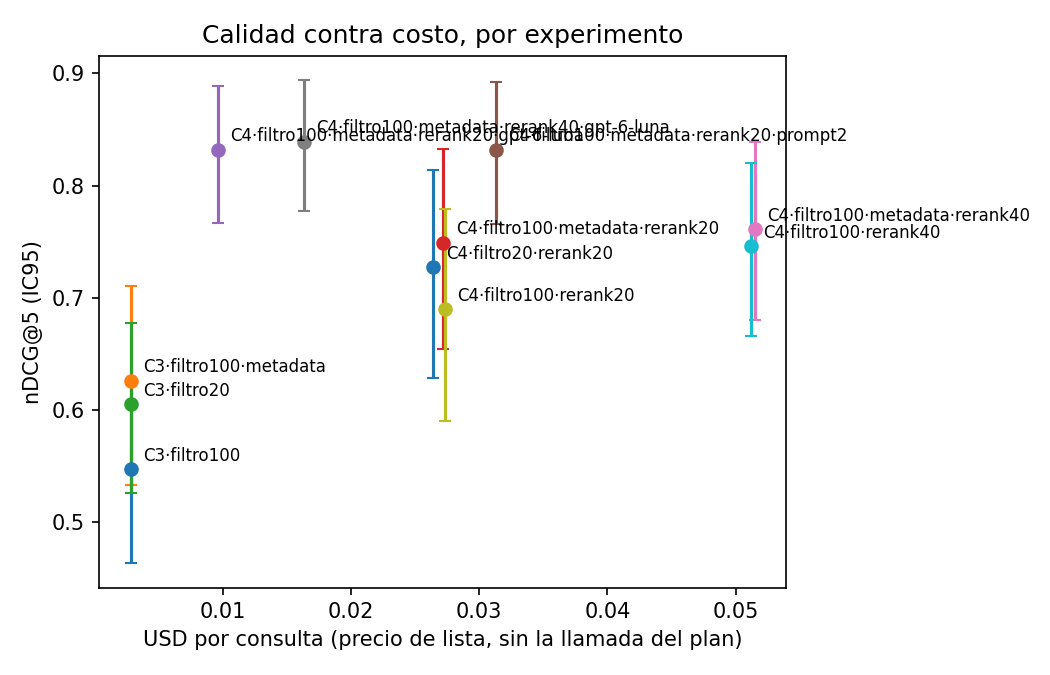
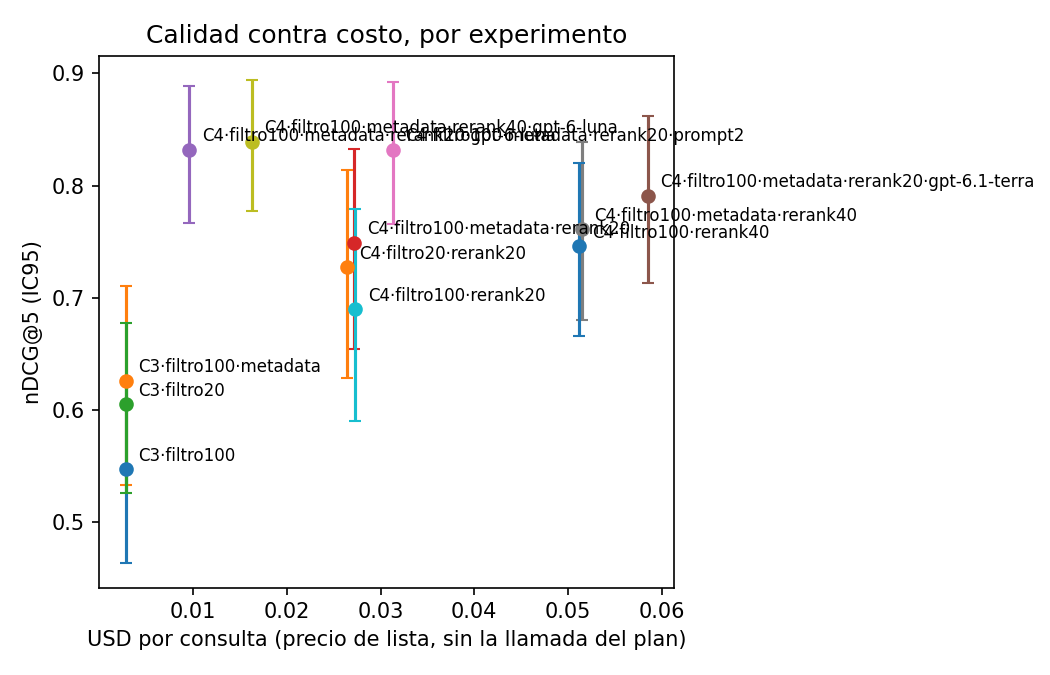
Juicios de las 3 obras nuevas de terra
Con esto no queda ningún par sin juzgar en el set de 30. Terra queda en 0,791,
+0,042 contra mini (IC 95 %: -0,007 a 0,096).

diff --git a/artifacts/analisis/planilla-juicios.html b/artifacts/analisis/planilla-juicios.html
@@ -26,7 +26,7 @@ section{margin-bottom:36px}
 .opc{color:var(--suave)}
 .grado{margin:6px 0;font-weight:600}
 .nota{width:100%;padding:6px;border:1px solid var(--borde);border-radius:6px;font:inherit;font-size:13px}
-.grados{display:flex;gap:6px;margin:8px 0}.g{flex:1;text-align:center;padding:6px;border:1px solid var(--borde);border-radius:6px;cursor:pointer}</style></head><body><div class="barra"><strong>Juicios pendientes del set de 30</strong><label>Anotador: <input id="anotador" placeholder="tu nombre"></label><span id="progreso">0 de 3</span><button id="descargar">Descargar CSV</button></div><main><div class="rubrica"><strong>Rúbrica v1, resumida</strong> (la completa está en <code>artifacts/ground-truth/rubricas/v1.md</code>)<ul><li><strong>2</strong>: cumple claramente el pedido respecto de la imagen original.</li><li><strong>1</strong>: cumple parcialmente o es defendible. Si dudás entre dos grados, es 1.</li><li><strong>0</strong>: no cumple. También es 0 si la obra es la misma imagen original.</li></ul>Juzgá cada obra por separado, sin compararla con las otras de la misma consulta. Cada persona usa su propia copia y no mira los grados de la otra. El avance queda guardado en este navegador.</div><section><header class="consulta"><img src="../../data/imagenes/aic_111728.jpg" alt=""><div><p class="id">c02-ambiguo · ambiguo · 1 obras</p><p class="pedido">«más tranquilo»</p><p class="datos">Imagen original: aic:111728. ¿La obra de abajo cumple el pedido respecto de esta imagen?</p></div></header><div class="obras"><article class="obra" data-clave="c02-ambiguo|aic:81574"><img loading="lazy" src="../../data/imagenes/aic_81574.jpg" alt=""><h3>Grey and Silver: Old Battersea Reach</h3><p class="datos">James McNeill Whistler · London · 1863 · Oil on canvas</p><p class="datos">aic:81574 <a href="https://www.artic.edu/artworks/81574" target="_blank" rel="noopener">ver en el museo</a></p><div class="grados"><label class="g g0"><input type="radio" name="c02-ambiguo|aic:81574" value="0"> 0</label><label class="g g1"><input type="radio" name="c02-ambiguo|aic:81574" value="1"> 1</label><label class="g g2"><input type="radio" name="c02-ambiguo|aic:81574" value="2"> 2</label></div><input class="nota" placeholder="nota (opcional)"></article></div></section><section><header class="consulta"><img src="../../data/imagenes/aic_111728.jpg" alt=""><div><p class="id">c02-visual · visual_cromatico · 1 obras</p><p class="pedido">«la misma escena de agua pero con luz dorada»</p><p class="datos">Imagen original: aic:111728. ¿La obra de abajo cumple el pedido respecto de esta imagen?</p></div></header><div class="obras"><article class="obra" data-clave="c02-visual|aic:238272"><img loading="lazy" src="../../data/imagenes/aic_238272.jpg" alt=""><h3>River Landscape with a View of Naarden</h3><p class="datos">Salomon van Ruysdael · Netherlands · 1642 · Oil on panel</p><p class="datos">aic:238272 <a href="https://www.artic.edu/artworks/238272" target="_blank" rel="noopener">ver en el museo</a></p><div class="grados"><label class="g g0"><input type="radio" name="c02-visual|aic:238272" value="0"> 0</label><label class="g g1"><input type="radio" name="c02-visual|aic:238272" value="1"> 1</label><label class="g g2"><input type="radio" name="c02-visual|aic:238272" value="2"> 2</label></div><input class="nota" placeholder="nota (opcional)"></article></div></section><section><header class="consulta"><img src="../../data/imagenes/cma_145925.jpg" alt=""><div><p class="id">c06-visual · visual_cromatico · 1 obras</p><p class="pedido">«el mismo rostro pero con colores más apagados»</p><p class="datos">Imagen original: cma:145925. ¿La obra de abajo cumple el pedido respecto de esta imagen?</p></div></header><div class="obras"><article class="obra" data-clave="c06-visual|cma:140342"><img loading="lazy" src="../../data/imagenes/cma_140342.jpg" alt=""><h3>Mme. Dufresne</h3><p class="datos">Pierre-Paul Prud&#x27;hon · France, 19th century · c. 1816 · oil on paper mounted on fabric</p><p class="datos">cma:140342 <a href="https://clevelandart.org/art/1964.292" target="_blank" rel="noopener">ver en el museo</a></p><div class="grados"><label class="g g0"><input type="radio" name="c06-visual|cma:140342" value="0"> 0</label><label class="g g1"><input type="radio" name="c06-visual|cma:140342" value="1"> 1</label><label class="g g2"><input type="radio" name="c06-visual|cma:140342" value="2"> 2</label></div><input class="nota" placeholder="nota (opcional)"></article></div></section></main><script>
+.grados{display:flex;gap:6px;margin:8px 0}.g{flex:1;text-align:center;padding:6px;border:1px solid var(--borde);border-radius:6px;cursor:pointer}</style></head><body><div class="barra"><strong>Juicios pendientes del set de 30</strong><label>Anotador: <input id="anotador" placeholder="tu nombre"></label><span id="progreso">0 de 0</span><button id="descargar">Descargar CSV</button></div><main><div class="rubrica"><strong>Rúbrica v1, resumida</strong> (la completa está en <code>artifacts/ground-truth/rubricas/v1.md</code>)<ul><li><strong>2</strong>: cumple claramente el pedido respecto de la imagen original.</li><li><strong>1</strong>: cumple parcialmente o es defendible. Si dudás entre dos grados, es 1.</li><li><strong>0</strong>: no cumple. También es 0 si la obra es la misma imagen original.</li></ul>Juzgá cada obra por separado, sin compararla con las otras de la misma consulta. Cada persona usa su propia copia y no mira los grados de la otra. El avance queda guardado en este navegador.</div></main><script>
 const obras=[...document.querySelectorAll('.obra')], anotador=document.getElementById('anotador');
 const CLAVE='planilla-juicios-v2';
 let estado={};
